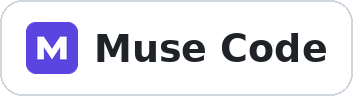
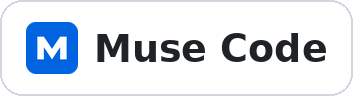
Use the official Freebuff mark and one blue for Muse Code
Freebuff's mark was a placeholder: a rounded badge with a plain sans "F",
filled with a green freebuff.com does not use. It is now the real glyph,
redrawn from the two polygons the site publishes in its own header, and the
accent is #22c55e, the green that site repeats across its landing styles.
The mark is monochrome, so it rides the dark-mode inversion like zed.svg.

Muse Code has no product mark of its own -- its docs site wears the Meta
symbol -- so it keeps its letter tile. The tile's accent and the README
pill's fill were two different hues, one of them purple; both are now
#0064E0, the blue that symbol's gradient uses, with a comment on each side
tying them together.

Also closes two small drifts found alongside: SUPPORTED_CLIENTS.md was
missing the Muse Code pill all six READMEs carry, and make_agent_pills.py
now records that pills/devin.png has no source mark to rebuild it from.

Changed region(s): [[0.0623, 0.2188, 0.2181, 0.7812]]

diff --git a/src/tokdash/static/index.html b/src/tokdash/static/index.html
@@ -12562,11 +12562,11 @@
       zed: { icon: '/static/icons/agents/zed.svg', color: '#111111', fallback: 'Z', darkInvert: true },
       qwen_code: { icon: '/static/icons/agents/qwen_code.svg', color: '#6D44E8', fallback: 'Q' },
       crush: { icon: '/static/icons/agents/crush.png', color: '#6B50FF', fallback: 'C' },
-      muse: { icon: null, color: '#0668E1', fallback: 'M' },
+      muse: { icon: null, color: '#0064E0', fallback: 'M' },
       minimax: { icon: '/static/icons/agents/minimax.png', color: '#E11580', fallback: 'M' },
       commandcode: { icon: '/static/icons/agents/commandcode.png', color: '#111111', fallback: 'C' },
       devin: { icon: '/static/icons/agents/devin.png', color: '#3F4756', fallback: 'D' },
-      freebuff: { icon: '/static/icons/agents/freebuff.svg', color: '#00C26E', fallback: 'F' },
+      freebuff: { icon: '/static/icons/agents/freebuff.svg', color: '#22c55e', fallback: 'F', darkInvert: true },
     });
     const toolBrandIconPromises = new Map();
 

diff --git a/scripts/make_agent_pills.py b/scripts/make_agent_pills.py
@@ -62,6 +62,10 @@ TOOLS = [
     ("freebuff", "Freebuff", "freebuff.svg"),
 ]
 
+# Not in the list above: the README strips also carry `pills/devin.png`, which has no
+# source mark in ``docs/assets/agents/``, so this script cannot rebuild it. Add the
+# source file and a ``("devin", "Devin CLI", "devin.<ext>")`` entry together.
+
 # Rendered at ~2.4x the README display height (40px) for crispness.
 H = 96
 LOGO_H = 52

diff --git a/src/tokdash/static/icons/agents/README.md b/src/tokdash/static/icons/agents/README.md
@@ -11,6 +11,8 @@ These small local assets are used only to identify coding-tool rows in Tokdash. 
 - MiniMax mark: the official MiniMax brand mark (white wave-M on the pink→orange gradient), taken from minimax.io's 512px Open Graph share image (`og:image`, served at 300x300; `docs/assets/agents/minimax.png` is the file verbatim). The packaged copy is a 64x64 downscale. Its gradient carries its own contrast on both themes, so the entry has no `darkInvert`; the brand pink at the gradient's start (`#E11580`) is the chart/label accent color.
 
 - Command Code mark: the official Command Code app icon -- the 512px Android Chrome icon commandcode.ai serves for its favicon set (`/favicon/2024/android-chrome-512x512.png`; `docs/assets/agents/commandcode.png` is that file verbatim). The packaged copy is a 64x64 downscale. It is a white glyph on a black rounded tile, so it carries its own contrast on both themes and the entry has no `darkInvert`; near-black `#111111` is the accent, as it is for the other black marks. Command Code is quota-only, so this mark reaches the dashboard through the Quota tab's provider table rather than a tool row.
+- Freebuff mark: the official Freebuff "F", redrawn from the two polygons freebuff.com publishes in its site header. Tokdash ships the header form -- a bare monochrome glyph, no badge -- because that is the inline-icon context their own nav uses, and a 20px slot leaves nothing to spare on a tile. The site's `apple-touch-icon.png` is the same glyph reversed, white on near-black. It is filled `#111111` and carries `darkInvert`, like `zed.svg`; the `#22c55e` accent is the green freebuff.com repeats through its landing styles, not the badge green this mark used to carry. The packaged copy and `docs/assets/agents/freebuff.svg` are byte-identical; keep them that way.
+- Muse Code letter mark: no asset in this directory. `TOOL_BRAND_META` renders `muse` as its `M` tile, because Muse Code has no product mark of its own -- its docs site wears the Meta symbol -- so the only brand value worth carrying is that symbol's blue, `#0064E0`. `docs/assets/agents/muse.svg`, the README pill's glyph, is filled the same blue. Keep the two in step.
 - Z.ai quota card: no asset of its own. The card wears `zcode.png`, because the Z.ai poll reads its API key from the ZCode CLI's own config (`$ZCODE_HOME/v2/config.json`) -- same vendor, same glyph, so the Quota tab's provider table maps `zai` onto the ZCode entry rather than shipping a duplicate of it.
 
 All marks remain the property of their respective owners.

diff --git a/docs/reference/SUPPORTED_CLIENTS.md b/docs/reference/SUPPORTED_CLIENTS.md
@@ -27,6 +27,7 @@ Tokdash reads usage **locally** from each tool's own session/log files — nothi
   <a href="https://zed.dev/" title="Zed"><img src="https://raw.githubusercontent.com/JingbiaoMei/Tokdash/main/docs/assets/agents/pills/zed.png" alt="Zed" height="34"></a>
   <a href="https://github.com/QwenLM/qwen-code" title="Qwen Code"><img src="https://raw.githubusercontent.com/JingbiaoMei/Tokdash/main/docs/assets/agents/pills/qwen-code.png" alt="Qwen Code" height="34"></a>
   <a href="https://charm.land/crush" title="Crush"><img src="https://raw.githubusercontent.com/JingbiaoMei/Tokdash/main/docs/assets/agents/pills/crush.png" alt="Crush" height="34"></a>
+  <a href="https://dev.meta.ai/docs/muse-code" title="Muse Code"><img src="https://raw.githubusercontent.com/JingbiaoMei/Tokdash/main/docs/assets/agents/pills/muse.png" alt="Muse Code" height="34"></a>
   <a href="https://freebuff.com/" title="Freebuff"><img src="https://raw.githubusercontent.com/JingbiaoMei/Tokdash/main/docs/assets/agents/pills/freebuff.png" alt="Freebuff" height="34"></a>
   <a href="https://github.com/MiniMax-AI/minimax-code" title="MiniMax Code"><img src="https://raw.githubusercontent.com/JingbiaoMei/Tokdash/main/docs/assets/agents/pills/minimax.png" alt="MiniMax Code" height="34"></a>
 <a href="https://devin.ai/cli" title="Devin CLI"><img src="https://raw.githubusercontent.com/JingbiaoMei/Tokdash/main/docs/assets/agents/pills/devin.png" alt="Devin CLI" height="34"></a>
